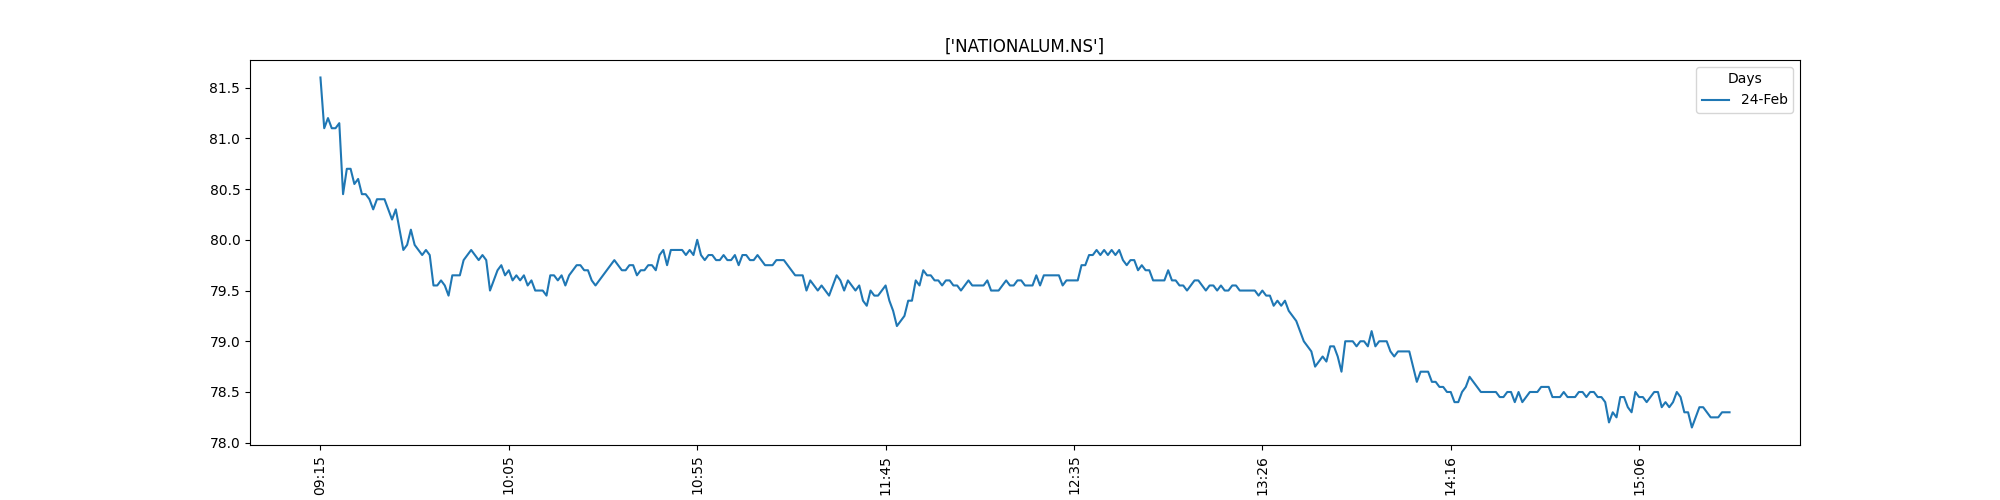
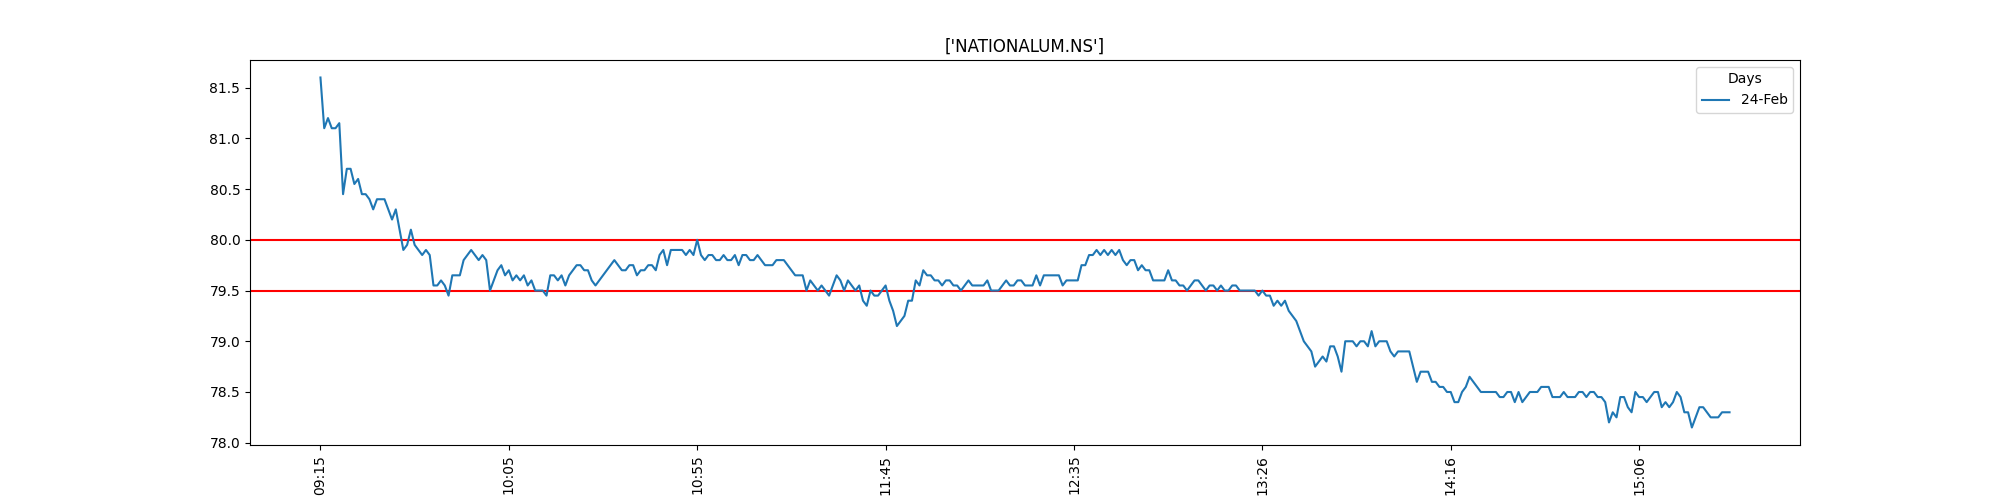
2:34 26th Feb

Changed region(s): [[0.124, 0.57, 0.899, 0.6]]

diff --git a/templates/intraday.html b/templates/intraday.html
@@ -248,11 +248,12 @@ border-radius:15px;
             </select>
             <span>From </span><input type="date" name="from_dt" id="from_dt">
             <span>to </span><input type="date" name="to_dt" id="to_dt" value="To">
-            
-            <input type="submit" value="Generate Chart">
             <br>
             <span>Set Target line</span>
-            <span>Date</span><input type="text" name="tgt_no" id="tgt_no">
+            <br>
+            Max<input type="text" name="max_val" id="max_val">Min<input type="text" name="min_val" id="min_val">
+            <input type="submit" value="Generate Chart">
+            
  </form>
  <a href="{{url_for('refresh_stock')}}"><button>Refresh</button></a>
  

diff --git a/Python_func/chart.py b/Python_func/chart.py
@@ -39,7 +39,7 @@ def indics_chart(conn):
     plt.savefig('static/chart_img/default_chart1.png')
 
 
-def create_chart(conn,stockname):
+def create_chart(conn,stockname,max_val,min_val):
     #print('create chart 2',stockname)
     query=f'''
             select distinct datetime as Datetime,open,high,low,close as Close,'Adj Close',volume,company_name,company_code from stock_data_interval  
@@ -76,20 +76,26 @@ def create_chart(conn,stockname):
     df3.pivot_table(index='Hour_Min',columns='Days',values='Normalized').plot(kind='line',ax=ax,rot=90)
     
     plt.title(title_name+' [Normalized]')
-    
-
     plt.savefig('static/chart_img/selected_chart1.png')
 
 
 
     fig,ax=plt.subplots(figsize=(20,5))
+
+    
+    
+    
     try:
+        if max_val!='' or min_val!='':
+            plt.axhline(y = float(max_val),color='r')
+            plt.axhline(y = float(min_val),color='r')
 
         stock_df=indics_df[indics_df['Datetime']>=datetime.today().strftime('%Y-%m-%d')+' 00:00:00']
         stock_df.pivot_table(index='Hour_Min',columns='Days',values='Close').plot(kind='line',ax=ax,rot=90)
         plt.title(title_name)
         plt.savefig('static/chart_img/selected_chart2.png')
     except:
+        
         stock_df=indics_df[indics_df['Datetime']>=df3['Datetime'].max().strftime('%Y-%m-%d')+' 00:00:00']
         stock_df.pivot_table(index='Hour_Min',columns='Days',values='Close').plot(kind='line',ax=ax,rot=90)
         plt.title(title_name)

diff --git a/app.py b/app.py
@@ -41,9 +41,11 @@ def set_chart():
 
         if request.method=="POST":
             stockname=request.form.get('stockname')
+            max_val=request.form.get('max_val')
+            min_val=request.form.get('min_val')
             session['stockname']=stockname
             with mysql_func().connect() as conn:
-                create_chart(conn,stockname)
+                create_chart(conn,stockname,max_val,min_val)
                 
             conn.close()
             return redirect("/portfolio/intraday")
